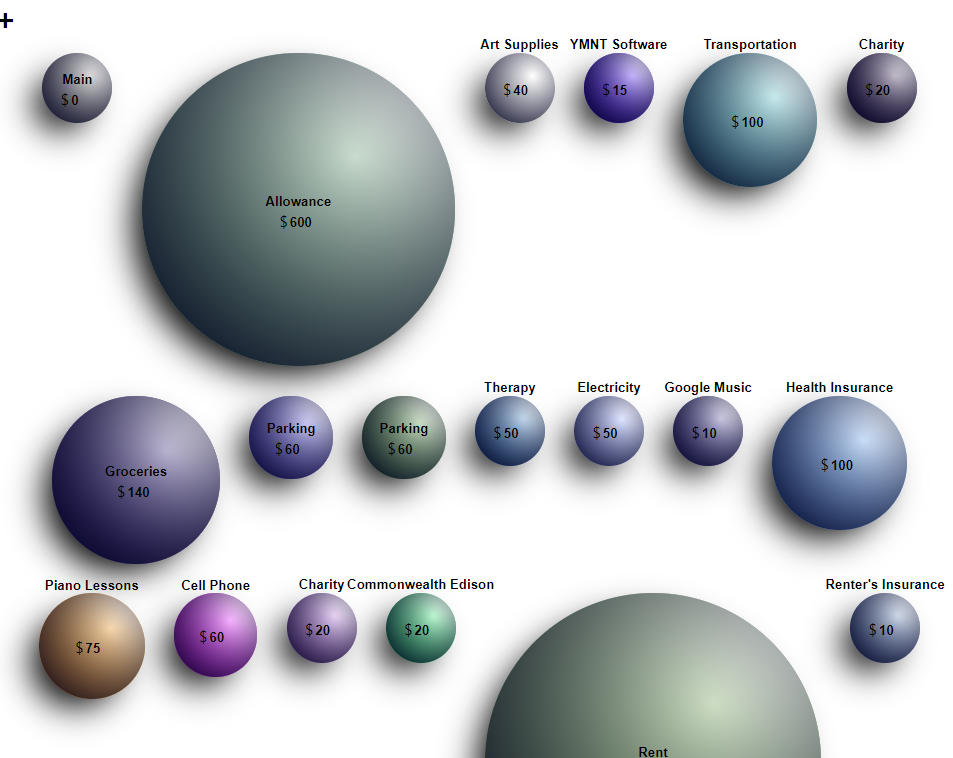
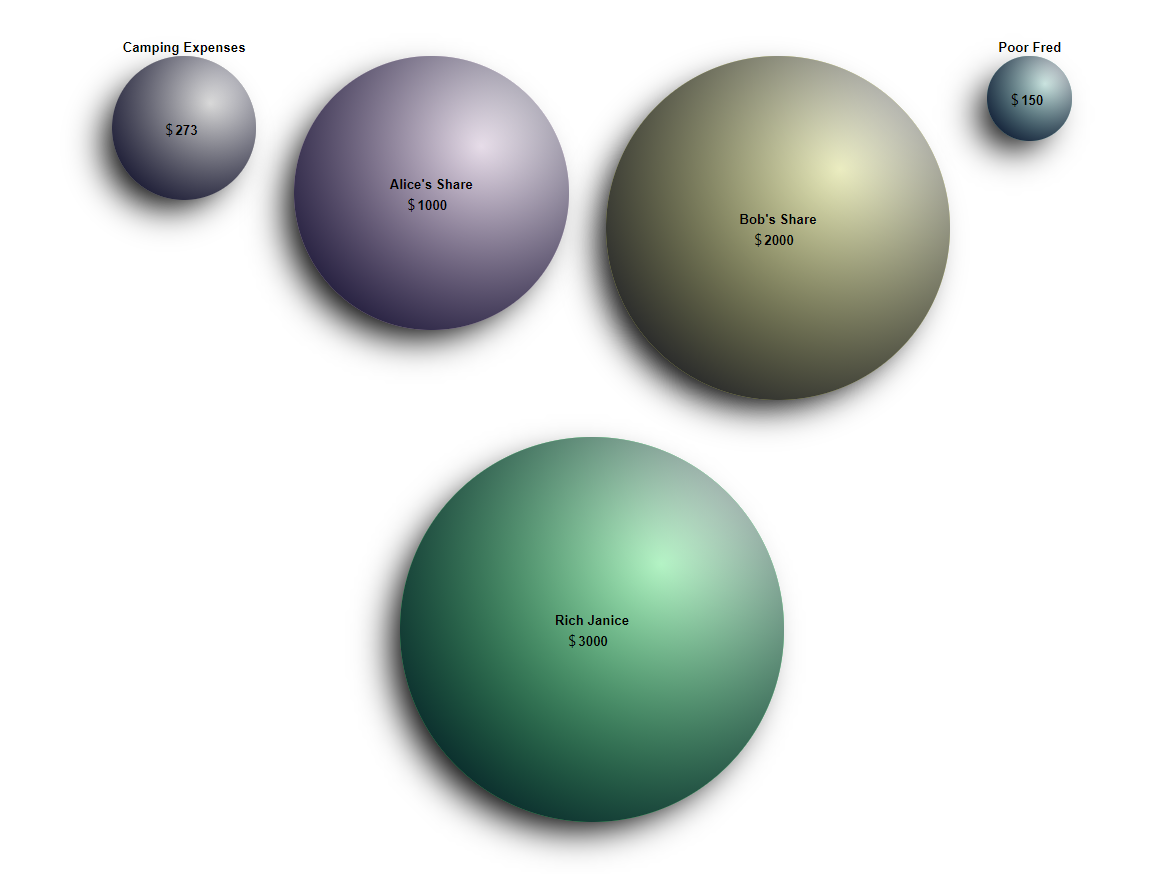
readme

diff --git a/src/App.tsx b/src/App.tsx
@@ -95,3 +95,5 @@ function App() {
 }
 
 export default App;
+// 2600
+// [{"amount":0,"color":"888888","id":0,"name":"Main"},{"id":1,"name":"Allowance","amount":600,"total":2600,"color":"568f63"},{"id":2,"name":"Art Supplies","amount":40,"total":2600,"color":"2c07d"},{"id":3,"name":"YMNT Software","amount":15,"total":2600,"color":"3c03e8"},{"id":4,"name":"Transportation","amount":100,"total":2600,"color":"4dbbc2"},{"id":5,"name":"Charity","amount":20,"total":2600,"color":"35204e"},{"id":6,"name":"Groceries","amount":140,"total":2600,"color":"201068"},{"id":7,"name":"Parking","amount":60,"total":2600,"color":"4f47ce"},{"id":8,"name":"Parking","amount":60,"total":2600,"color":"4e8e3b"},{"id":9,"name":"Therapy","amount":50,"total":2600,"color":"3477ba"},{"id":10,"name":"Electricity","amount":50,"total":2600,"color":"9bacff"},{"id":11,"name":"Google Music","amount":10,"total":2600,"color":"4c4699"},{"id":12,"name":"Health Insurance","amount":100,"total":2600,"color":"5596e8"},{"id":13,"name":"Piano Lessons","amount":75,"total":2600,"color":"e48401"},{"id":14,"name":"Cell Phone","amount":60,"total":2600,"color":"dd09f9"},{"id":15,"name":"Charity","amount":20,"total":2600,"color":"b171da"},{"id":16,"name":"Commonwealth Edison","amount":20,"total":2600,"color":"28e16c"},{"id":17,"name":"Rent","amount":750,"total":2600,"color":"649547"},{"id":18,"name":"Renter's Insurance","amount":10,"total":2600,"color":"6080b5"},{"id":19,"name":"TV","amount":18,"total":2600,"color":"4ad24e"},{"id":20,"name":"Savings","amount":260,"total":2600,"color":"da77dd"},{"id":21,"name":"Extra","amount":142,"total":2600,"color":"6d7aab"}]

diff --git a/README.md b/README.md
@@ -1,46 +1,15 @@
-# Getting Started with Create React App
+#Budget Balls
+#### I tried to think of a better name, but this one stuck
+A quick and visual way to budget resources. Monthly budgets, group holiday expenses, &c.
 
-This project was bootstrapped with [Create React App](https://github.com/facebook/create-react-app).
+Click on the numbers to edit the amount, click on the titles to edit the title. The intial pool of money is in a call that is initially called "Main", which will always be there. You cannot allocate more money that this initial total to any of the other balls. However, you can always add more to the Main ball.
 
-## Available Scripts
+Click the Plus in the upper right corner to add a new ball. This could be a monthly expense, perhaps, or maybe someone that is contributing to the holiday. This will add a new ball with a starting amount of $100, and will subtract $100 form the main pool. Enter an amount of $0 to remove a ball.
 
-In the project directory, you can run:
+All changes are saved to local storage. 
 
-### `npm start`
+In this screenshot, Bob, Alice, Fred and Janice are figure out who can pay what for their upcoming camping trip. They almost got the whole thing paid for, but someone still needs to cover the last $273.
+![Screenshot](https://github.com/B-Dionysus/budget/blob/master/screenShot.PNG)
 
-Runs the app in the development mode.\
-Open [http://localhost:3000](http://localhost:3000) to view it in the browser.
-
-The page will reload if you make edits.\
-You will also see any lint errors in the console.
-
-### `npm test`
-
-Launches the test runner in the interactive watch mode.\
-See the section about [running tests](https://facebook.github.io/create-react-app/docs/running-tests) for more information.
-
-### `npm run build`
-
-Builds the app for production to the `build` folder.\
-It correctly bundles React in production mode and optimizes the build for the best performance.
-
-The build is minified and the filenames include the hashes.\
-Your app is ready to be deployed!
-
-See the section about [deployment](https://facebook.github.io/create-react-app/docs/deployment) for more information.
-
-### `npm run eject`
-
-**Note: this is a one-way operation. Once you `eject`, you can’t go back!**
-
-If you aren’t satisfied with the build tool and configuration choices, you can `eject` at any time. This command will remove the single build dependency from your project.
-
-Instead, it will copy all the configuration files and the transitive dependencies (webpack, Babel, ESLint, etc) right into your project so you have full control over them. All of the commands except `eject` will still work, but they will point to the copied scripts so you can tweak them. At this point you’re on your own.
-
-You don’t have to ever use `eject`. The curated feature set is suitable for small and middle deployments, and you shouldn’t feel obligated to use this feature. However we understand that this tool wouldn’t be useful if you couldn’t customize it when you are ready for it.
-
-## Learn More
-
-You can learn more in the [Create React App documentation](https://facebook.github.io/create-react-app/docs/getting-started).
-
-To learn React, check out the [React documentation](https://reactjs.org/).
+ToDo: 
+ [ ] Add a way to export/share the budgets
